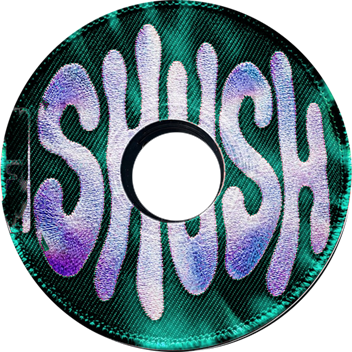
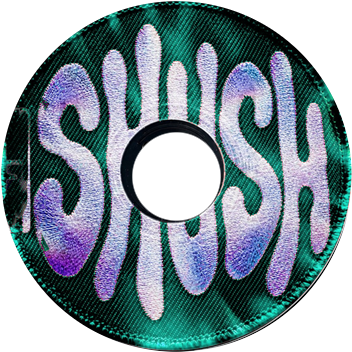
fix(site): remove tray hinge tab cutout artifact, enhance compact disc badge, and add cache-busters

diff --git a/site/index.html b/site/index.html
@@ -81,7 +81,7 @@
       position: absolute;
       inset: 0;
       border-radius: 6px;
-      background-image: url('case-tray.png');
+      background-image: url('case-tray.png?v=2');
       background-size: cover;
       filter: drop-shadow(0 20px 40px rgba(0, 0, 0, 0.85));
     }
@@ -117,7 +117,7 @@
       position: absolute;
       inset: 0;
       border-radius: 6px;
-      background-image: url('case-lid.png');
+      background-image: url('case-lid.png?v=2');
       background-size: cover;
       transform-origin: 0% 50%;
       transform-style: preserve-3d;
@@ -245,7 +245,7 @@
         <div class="case-wrapper perspective-1000" onclick="toggleCase()" id="case-wrapper" title="Click the disc to play · click the case to open / close">
           <div class="case-container" id="jewel-case-box">
             <div class="case-tray"></div>
-            <img src="cd-512.png" alt="Play track 01" id="hero-cd" class="case-disc cd-spin paused" role="button" tabindex="0" aria-pressed="false">
+            <img src="cd-512.png?v=2" alt="Play track 01" id="hero-cd" class="case-disc cd-spin paused" role="button" tabindex="0" aria-pressed="false">
             <div class="case-lid" id="case-lid"></div>
           </div>
         </div>
